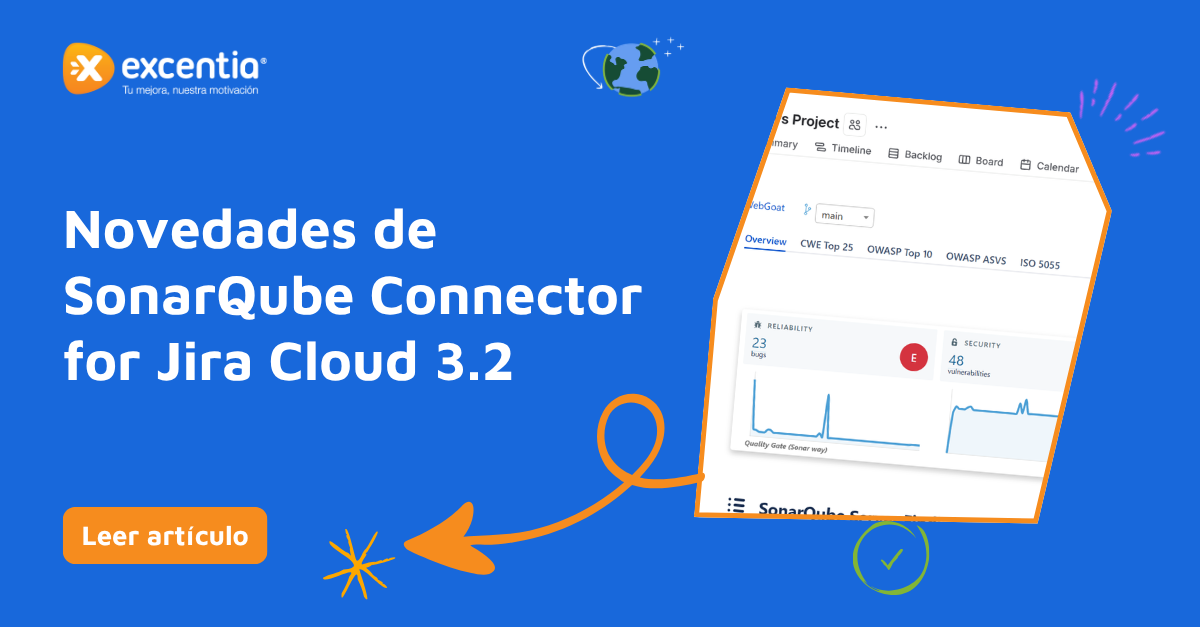
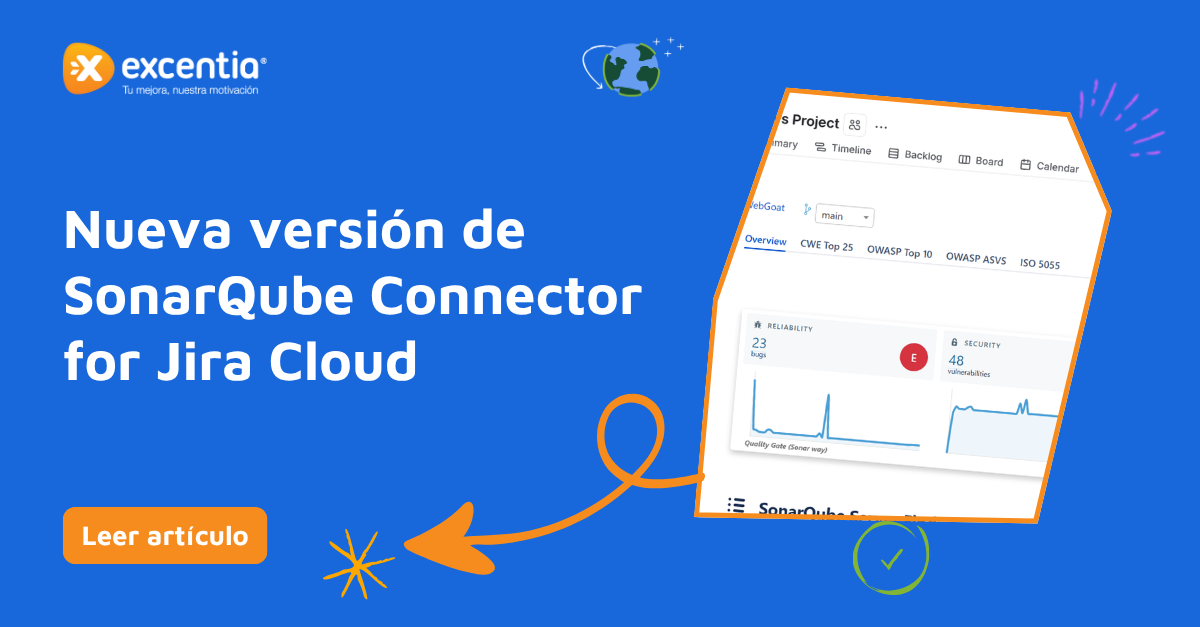
Quitar version

Changed region(s): [[0.0925, 0.3333, 0.4625, 0.3939], [0.37, 0.5455, 0.4317, 0.6061]]

diff --git a/_posts/2026-04-12-release-sonarqube-connector-jira-cloud-3-2.md b/_posts/2026-04-12-release-sonarqube-connector-jira-cloud-3-2.md
@@ -1,6 +1,6 @@
 ---
 layout: post
-title: '¡Nueva release! SonarQube Connector for Jira Cloud 3.2 ya está aquí'
+title: '¡Ya está aquí la nueva versión de SonarQube Connector for Jira'
 description: Descubre las novedades del conector de Jira y SonarQube con búsqueda inteligente, comentarios automáticos y modo oscuro para mejorar tu flujo en Jira
 author: Belén Casanovas
 categories:
@@ -12,7 +12,7 @@ cover: /img/posts/2026-04-12-release-sonarqube-connector-jira-cloud-3-2.png
 
 ---
 
-¡Ya está disponible la nueva versión de **SonarQube Connector for Jira Cloud 3.2**! Esta release trae tres nuevas funcionalidades que te explico a continuación: 
+¡Ya está disponible la nueva versión de **SonarQube Connector for Jira Cloud**! Esta release trae tres nuevas funcionalidades que te explico a continuación: 
 
 - **Búsqueda inteligente**: Ahora puedes buscar directamente desde la configuración del conector proyectos, aplicaciones, portfolios y tags sin salir de la interfaz de Jira. De esta forma, evitas los saltos de copiar la key y luego pegarla a la hora de realizar la búsqueda. 
 - **Comentarios automáticos**: Una de las mejoras más interesantes es la nueva capacidad de añadir comentarios automáticos en las issues de SonarQube cuando se crea un ticket en Jira. Cuando haces click para crear la issue, se añade un comentario con un prefijo (configurado por el usuario o Jira por defecto) diciendo que esa issue ya ha sido creada en Jira con un link al propio ticket.
